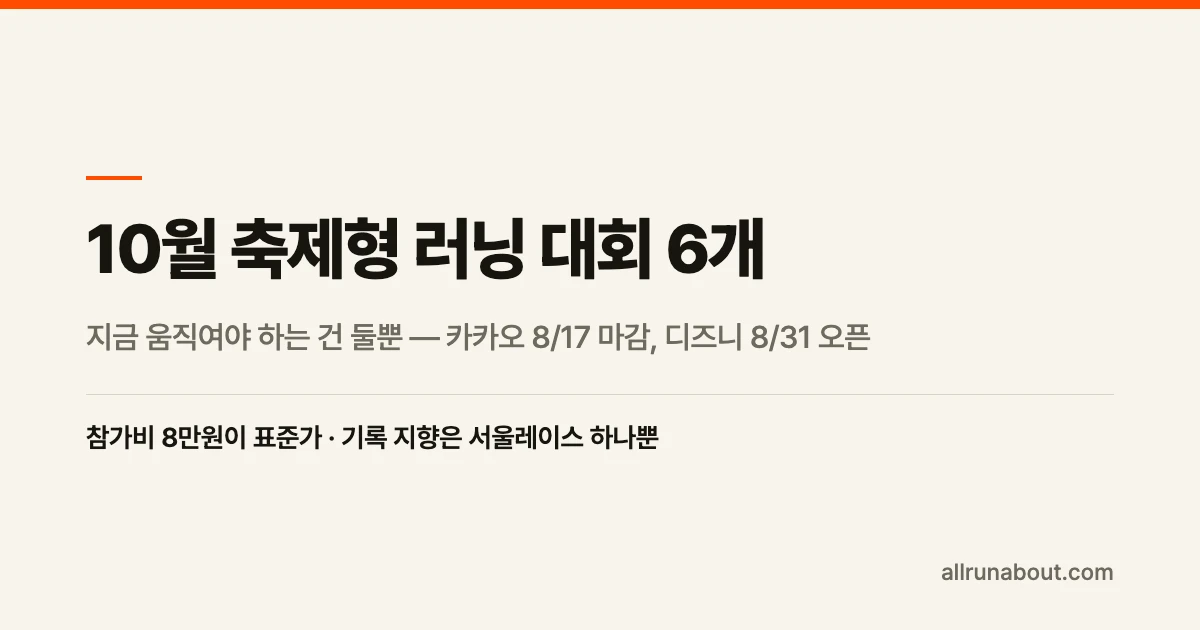
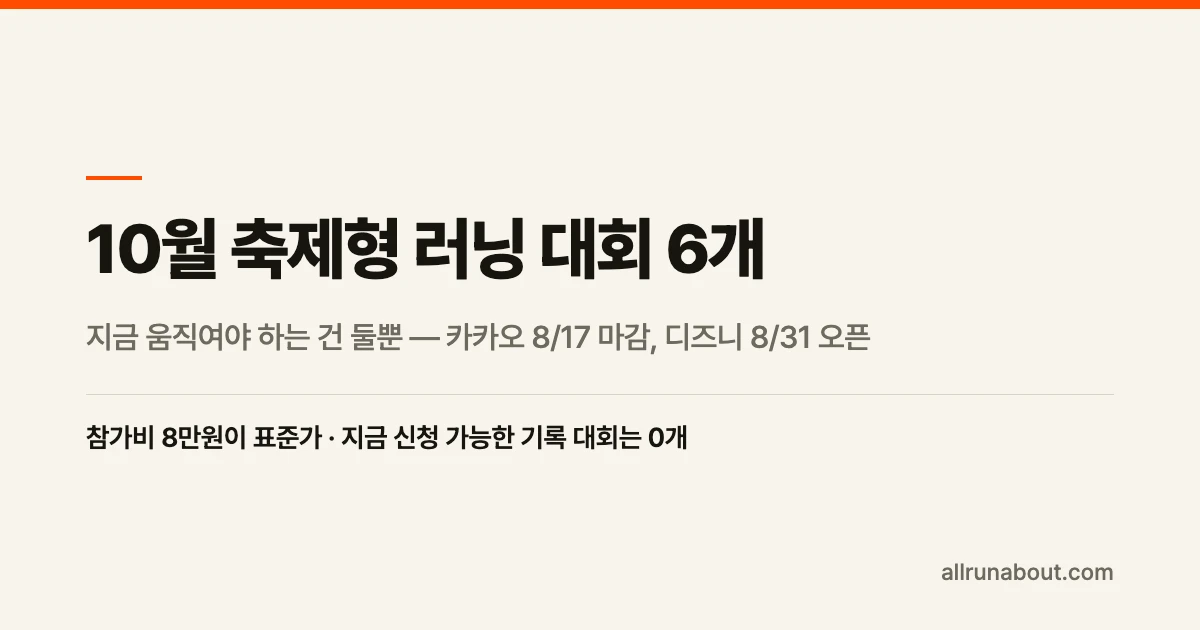
fix(marathon): 서울레이스 status 접수중→마감 정정 + 관련 글 3곳 수정
공식 사이트(seoul-race.co.kr) 직접 수집으로 확정. 근거 셋:
- 7/14·8/2 공지가 "참가자 여러분" 대상 출발 그룹 배정용 기록증 제출 안내
- 8/7 자원봉사 모집 공지에서 참가 규모를 "1만 3천 명"으로 명시
- 추가접수 공지 없음

DB: status 마감, expectedParticipants 12,500→13,000, registrationEnd
2026-05-27·lastVerified 백필. 블로그는 비교글의 서울레이스 행·기록 섹션·
목적별 추천·FAQ·미확정 callout과 카카오/배불런 글의 캘린더 문구를 정정 —
"10월에 지금 신청 가능한 기록 대회는 없다"로 결론이 바뀐다.

수집 노하우(todo-estimates 기록): 이 사이트는 WebFetch 403이지만 UA 지정
curl은 200. 초기 실패는 차단이 아니라 ugrep 정규식이 한글 멀티바이트에서
복잡도 초과로 터진 것 — 한글 페이지는 python 태그제거 후 슬라이스가 안전.

Changed region(s): [[0.2775, 0.6635, 0.5858, 0.7238]]

diff --git a/src/lib/data/blog/posts/2026-08.ts b/src/lib/data/blog/posts/2026-08.ts
@@ -32,7 +32,7 @@ export const posts_2026_08: BlogPost[] = [
       {
         question: '기록을 노린다면 어디로 가야 하나요?',
         answer:
-          '서울레이스(10월 11일, 청계광장 출발 하프·10K)가 유일하게 기록 지향 대회입니다. 도심 100% 아스팔트 평지 순환 코스에 대한육상연맹 공인이라 하프 PB에 친화적입니다. 나머지 다섯 개는 전부 축제형이라 PB용으로는 맞지 않습니다. 다만 서울레이스는 본접수가 5월에 진행됐으니 잔여 접수 여부를 공식 사이트에서 확인해야 합니다.',
+          '서울레이스(10월 11일, 청계광장 출발 하프·10K)가 유일하게 기록 지향 대회입니다. 다만 접수는 이미 끝났습니다 — 본접수가 5월 27일에 진행됐고, 공식 공지도 7월부터 참가자 대상 출발 그룹 배정 안내 단계로 넘어갔습니다. 즉 10월 라인업 여섯 개 중 지금 신청 가능한 기록 대회는 없습니다. 가을에 PB를 노린다면 춘천마라톤 같은 다른 대회를 봐야 하고, 하반기 기록 대회 일정은 별도 글에 정리해뒀습니다.',
       },
       {
         question: '첫 대회인데 어디가 좋을까요?',
@@ -48,7 +48,7 @@ export const posts_2026_08: BlogPost[] = [
   <ul>
     <li><strong>2026년 10월은 브랜드·캐릭터 러닝 대회가 여섯 개 몰린 달입니다</strong> — 배불런·런유어웨이(10/4), 카카오프렌즈 런(10/10), 서울레이스(10/11), 디즈니런(10/24), 그리고 일정 미발표 스타일런</li>
     <li><strong>지금 손을 써야 하는 건 둘뿐</strong> — 카카오는 8/17 마감, 디즈니는 8/31 오픈. 배불런·스타일런은 티켓 오픈 대기, 런유어웨이는 래플이 끝나 매장 패키지만 남았습니다</li>
-    <li><strong>참가비 8만원이 표준가가 됐고</strong>(카카오·디즈니 10K·런유어웨이), 여섯 중 <strong>기록 지향은 서울레이스 하나뿐</strong>입니다. 나머지는 전부 축제형</li>
+    <li><strong>참가비 8만원이 표준가가 됐고</strong>(카카오·디즈니 10K·런유어웨이), 여섯 중 기록 지향은 서울레이스 하나뿐인데 <strong>그마저 5월에 접수가 끝났습니다</strong> — 즉 10월에 지금 신청 가능한 기록 대회는 없고, 남은 건 전부 축제형입니다</li>
   </ul>
 </div>
 
@@ -93,7 +93,7 @@ export const posts_2026_08: BlogPost[] = [
       <td>10/11(일)<br>08:00</td>
       <td>청계광장<br>하프·10K</td>
       <td>하프 7만<br>10K 6만</td>
-      <td>본접수 5월 진행<br><small>잔여 여부 공식 확인</small></td>
+      <td><strong>접수 마감</strong><br><small>본접수 5/27 종료</small></td>
     </tr>
     <tr>
       <td><strong><a href="/marathon/disney-run-incheon-2026">디즈니런 인천</a></strong><br><small>디즈니</small></td>
@@ -157,7 +157,9 @@ export const posts_2026_08: BlogPost[] = [
 
 <p><strong>서울레이스(10/11)</strong>가 유일한 기록 지향 대회입니다. 청계광장→종로→숭례문→시청→청계천→DDP로 이어지는 도심 100% 아스팔트 평지 순환 코스에 대한육상연맹 공인, 작년 12,800명으로 역대 최다를 찍었습니다. 하프 PB를 노린다면 10월 라인업에서 사실상 이 대회 하나입니다.</p>
 
-<p>단, 본접수가 5월(우선접수 5/11~15, 본접수 5/27)에 진행됐습니다. 8월 12일 기준 잔여 접수가 있는지는 공식 사이트에서 직접 확인해야 합니다. 가을 풀코스·하프 기록 대회를 폭넓게 보고 싶다면 <a href="/blog/2026-second-half-marathon-schedule-korea">하반기 마라톤 완전정복</a>이 더 맞습니다.</p>
+<p><strong>단, 접수는 이미 끝났습니다.</strong> 우선접수 5/11~15, 본접수 5/27로 진행됐고, 공식 공지는 7월부터 <strong>참가자 대상 출발 그룹 배정용 기록증 제출</strong> 단계로 넘어갔습니다(8월 7일 자원봉사 모집 공지에서는 참가 규모를 <strong>1만 3천 명</strong>으로 못 박았습니다). 추가접수 공지도 없습니다.</p>
+
+<p>정리하면 <strong>10월 여섯 대회 중 지금 신청할 수 있는 기록 대회는 없습니다.</strong> 남은 다섯은 전부 축제형이고, 그중 그나마 기록에 가까운 건 출발 그룹을 나누는 런유어웨이 10K인데 이마저 래플이 끝났습니다. 가을에 PB를 노린다면 10월 밖에서 찾아야 하고, 대회별 접수일은 <a href="/blog/2026-second-half-marathon-schedule-korea">하반기 마라톤 완전정복</a>에 정리돼 있습니다.</p>
 
 <h2>5. 목적별 30초 추천</h2>
 
@@ -165,7 +167,7 @@ export const posts_2026_08: BlogPost[] = [
   <li><strong>생애 첫 대회 / 가족·아이 동반</strong> → 배불런(5K 단일) 또는 디즈니런 5K(가족 친화 설계)</li>
   <li><strong>굿즈가 목적</strong> → 카카오(러닝 의류 세트 + 협찬 패키지 규모가 가장 큼)</li>
   <li><strong>러닝화가 필요했다</strong> → 런유어웨이 8/20·21 매장 패키지(신발값에 참가권이 붙는 구조)</li>
-  <li><strong>기록·PB</strong> → 서울레이스 하프(잔여 접수 확인 필요)</li>
+  <li><strong>기록·PB</strong> → <strong>10월 안엔 없습니다</strong>(유일한 기록 대회 서울레이스는 5월에 접수 마감) — <a href="/blog/2026-second-half-marathon-schedule-korea">하반기 일정</a>에서 11~12월 대회를 보세요</li>
   <li><strong>패션·트렌드</strong> → 스타일런(발표 대기 — 작년 5시간 매진이라 알림 설정 필수)</li>
   <li><strong>추첨 떨어져도 뛰고 싶다</strong> → 카카오 버추얼 런(카카오맵·같이가치 연계)</li>
 </ul>
@@ -184,7 +186,7 @@ export const posts_2026_08: BlogPost[] = [
   <span class="callout-icon">⚠</span>
   <div class="callout-body">
     <p class="callout-title">확정되지 않은 항목</p>
-    <p>리아는 배불런의 티켓 오픈일·참가비, 스타일런의 2026년 일정 전체, 서울레이스의 현재 잔여 접수 여부는 2026년 8월 12일 기준 미확인입니다. 카카오프렌즈 런도 접수는 열렸지만 환불 규정·코스 상세·기록 계측 여부 등 세부 요강은 아직 공개 자료에서 확인되지 않았습니다. 각 대회 공식 채널에서 최종 확인하시고, 확정되는 대로 이 글을 갱신하겠습니다.</p>
+    <p>리아는 배불런의 티켓 오픈일·참가비, 스타일런의 2026년 일정 전체는 2026년 8월 12일 기준 미공개입니다. 카카오프렌즈 런도 접수는 열렸지만 환불 규정·코스 상세·기록 계측 여부 등 세부 요강은 아직 공개 자료에서 확인되지 않았습니다. 각 대회 공식 채널에서 최종 확인하시고, 확정되는 대로 이 글을 갱신하겠습니다.</p>
   </div>
 </div>
 
@@ -659,7 +661,7 @@ export const posts_2026_08: BlogPost[] = [
 
 <ul>
   <li><strong>10월 10일</strong> — <a href="/marathon/kakao-friends-run-2026">카카오프렌즈 런</a> (탄천 1만 명, <a href="/blog/kakao-friends-run-2026">접수 분석 글</a> 참고)</li>
-  <li><strong>10월 11일</strong> — <a href="/marathon/seoul-race-2026">서울레이스</a> (도심 하프·10K — 기록 지향이면 이쪽)</li>
+  <li><strong>10월 11일</strong> — <a href="/marathon/seoul-race-2026">서울레이스</a> (도심 하프·10K — 10월 유일의 기록 대회지만 <strong>5월에 접수 마감</strong>)</li>
   <li><strong>10월 중하순(미확정)</strong> — <strong>스타일런</strong> (잠실, 패션 펀런)</li>
   <li><strong>10월 24일</strong> — <a href="/marathon/disney-run-incheon-2026">디즈니런 인천</a> (캐릭터 IP 펀런)</li>
 </ul>
@@ -2740,7 +2742,7 @@ export const posts_2026_08: BlogPost[] = [
   <li><strong>9월</strong> — <a href="/marathon/mudo-run-gyeongju-2026">무한도전 RUN in 경주</a> (예능 IP 펀런)</li>
   <li><strong>10월 4일</strong> — <a href="/blog/lotteria-baebulrun-2026">리아는 배불런</a> (롯데리아, 서울어린이대공원 5K) · <a href="/marathon/nb-run-your-way-seoul-10k-2026">NB 런 유어 웨이 서울 10K</a> (브랜드 대회) — <strong>같은 날 겹칩니다</strong></li>
   <li><strong>10월 10일</strong> — <strong>카카오프렌즈 런</strong> (탄천, 5K·10K)</li>
-  <li><strong>10월 11일</strong> — <a href="/marathon/seoul-race-2026">서울레이스</a> (도심 하프·10K — 기록 지향이면 이쪽)</li>
+  <li><strong>10월 11일</strong> — <a href="/marathon/seoul-race-2026">서울레이스</a> (도심 하프·10K — 10월 유일의 기록 대회지만 <strong>5월에 접수 마감</strong>)</li>
   <li><strong>10월 24일</strong> — <a href="/marathon/disney-run-incheon-2026">디즈니런 인천</a> (캐릭터 IP 펀런)</li>
   <li><strong>10월 중하순(미확정)</strong> — <a href="/blog/style-run-2026-preview">스타일런</a> (롯데백화점, 잠실 패션 펀런)</li>
 </ul>

diff --git a/src/lib/data/marathon/october.ts b/src/lib/data/marathon/october.ts
@@ -241,11 +241,11 @@ export const octoberEvents: MarathonEvent[] = [
     location: '청계광장 앞 세종대로',
     region: '서울',
     distances: ['하프', '10K'],
-    status: '접수중',
+    status: '마감',
     isMajor: true,
     website: 'https://www.seoul-race.co.kr/',
     description:
-      '동마 시리즈 유일 가을 도심 페스티벌형 하프·10K. 청계광장→종로→숭례문→시청→청계천→DDP. 우선접수 5/11~5/15, 본접수 5/27 19시 하프·21시 10K. 2025년 12,800명 역대 최다.',
+      '동마 시리즈 유일 가을 도심 페스티벌형 하프·10K. 청계광장→종로→숭례문→시청→청계천→DDP. 우선접수 5/11~5/15, 본접수 5/27 19시 하프·21시 10K로 진행돼 접수는 종료됐습니다(공식 공지가 7월부터 참가자 대상 출발 그룹 배정용 기록증 제출을 안내하고, 8월 7일 자원봉사 모집 공지에서 참가 규모를 1만 3천 명으로 명시 — 2026-08-12 확인). 2025년 12,800명 역대 최다.',
     courseInfo: {
       terrain: '평지',
       difficulty: '중급',
@@ -257,9 +257,11 @@ export const octoberEvents: MarathonEvent[] = [
         { distance: '하프', fee: 70000 },
         { distance: '10K', fee: 60000 },
       ],
-      expectedParticipants: 12500,
+      expectedParticipants: 13000,
       startTime: '08:00',
     },
+    registrationEnd: '2026-05-27',
+    lastVerified: '2026-08-12',
   },
   {
     id: 'disney-run-incheon-2026',

diff --git a/scripts/thumbnail/copy.ts b/scripts/thumbnail/copy.ts
@@ -43,7 +43,7 @@ export const OVERRIDES: Record<string, Partial<ThumbCopy>> = {
   'october-fun-run-races-2026-compare': {
     title: '10월 축제형 러닝 대회 6개',
     subtitle: '지금 움직여야 하는 건 둘뿐 — 카카오 8/17 마감, 디즈니 8/31 오픈',
-    data: '참가비 8만원이 표준가 · 기록 지향은 서울레이스 하나뿐',
+    data: '참가비 8만원이 표준가 · 지금 신청 가능한 기록 대회는 0개',
   },
   // 출처: posts/2026-08.ts 출시 정보 표 — 뉴발란스 인스타 공지(2026-08-12 확인, 출시일·가격·체험)
   // + 공식 발표 스펙(218g). 패키지 동가 구조는 런유어웨이 공식 접수 안내 기준.

diff --git a/.omc/todo-estimates.md b/.omc/todo-estimates.md
@@ -181,6 +181,7 @@
 - [ ] nike-hybrid-rn / nike-hybrid-fly: **블로그 발행 완료(nike-hybrid-hyrox-shoes-2026, 2026-08-06), DB 미등록** — 한국 출시·정가 미확인($150은 미국 외신 기준, 나이키 발표문에 가격 없음). ⓐ 10/8 글로벌 출시 후 nike.com/kr 등재·한국가 확인 → 글 갱신 + DB 등록 검토(하이록스 서울 11/14~15 직전 시의성) ⓑ RunRepeat 랩 게시 시 실측 반영 ⓒ 하이브리드 플라이는 2027-04 출시라 내년 3월 재확인 (추가 2026-08-06)
 - [ ] busan-bridge-marathon-2026 (블로그 발행 + december.ts 갱신 2026-08-12): ① **8/24(월) 10시 접수 오픈 시 status 접수예정→접수중** + 블로그 deadline-strip "접수 진행 중"으로 갱신, 선착순 12,000명이라 소진 속도 확인(접수 발표일=수익 스파이크 패턴 후보) ② 공식 사이트 집결지 안내(Coming Soon) 갱신 시 피니시 지점·코스 순서 본문 반영 ③ ⚠ 일부 애그리게이터의 "8/1~8/16 접수"는 공식과 충돌하는 오정보로 폐기했음 — 재확인 시 공식(busanmarathon.com)만 신뢰 (추가 2026-08-12)
 - [ ] style-run-2026-preview (프리뷰 발행 2026-08-12): 2026 공식 발표 시(작년 패턴상 8월 하순, blog.lotte.co.kr·롯데백화점몰) ⓐ 글 갱신(대회일·접수일·참가비·협업 브랜드·정원 — 전부 현재 미확정) ⓑ marathon DB 등록(날짜 확정 후) ⓒ 제3자 "10/18" 표기는 공식 근거 없음 — 공식 발표로만 확정할 것. 재확인 2026-08-20~09-01 (추가 2026-08-12)
-- [ ] seoul-race-2026 (october.ts) **status 검증 필요**: DB는 `접수중`인데 본접수가 5/27이라 8월 현재 열려 있을 가능성이 낮음. 2026-08-12 확인 시도했으나 공식(seoul-race.co.kr) WebFetch 403 + curl 무응답으로 실패 → **날짜 경과만으로 마감 단정 금지 원칙에 따라 DB 미변경**. Chrome MCP 등 접근 가능한 경로로 재확인 후 `마감` 여부 판정. 비교글(`october-fun-run-races-2026-compare`)엔 "잔여 여부 공식 확인 필요"로 보수 표기해둠 (추가 2026-08-12)
+- [x] ~~seoul-race-2026 status 검증~~ **완료(2026-08-12)** — `접수중`은 오류였고 **`마감`으로 정정**. 근거(공식 seoul-race.co.kr 직접 수집): ① 7/14·8/2 공지가 "**참가자 여러분**" 대상 출발 그룹 배정용 기록증 제출 안내 ② 8/7 자원봉사(동마크루·레이스패트롤·페이스메이커) 모집 공지에서 참가 규모를 "**1만 3천 명**"으로 명시 ③ 추가접수 공지 없음. `expectedParticipants` 12,500→13,000, `registrationEnd: 2026-05-27`·`lastVerified` 백필. 비교글·카카오 글의 서울레이스 서술도 "접수 마감"으로 정정.
+  - **수집 노하우**: `seoul-race.co.kr`은 **WebFetch 403이지만 UA 지정 curl은 200**(578KB, imweb 기반). 초기 시도가 실패한 건 사이트 차단이 아니라 **ugrep 정규식이 한글 멀티바이트 `.{0,80}`에서 복잡도 초과로 터진 것** — 한글 페이지 추출은 grep 대신 **python으로 태그 제거 후 키워드 주변 슬라이스**가 안전하다.
 - [ ] kakao-friends-run-2026: 접수 8/17(월) 마감 → **8/18 status `마감`**, 8/20 당첨 발표 후 글 갱신. ⚠ 요강 9개 항목(환불 규정·칩 계측·코스·정원 배분·결제 기한 등)이 8/12 현재도 미공개 — 공식 홈페이지가 **카카오톡 인앱 전용**으로 보여 WebFetch·검색으로 도달 불가. 확인하려면 Chrome MCP 로그인 세션이나 카톡 채널 딥링크 필요 (추가 2026-08-12)
 - [ ] lotteria-baebulrun-2026 (블로그 발행 + october.ts 등록 2026-08-12): 공식명 "2026 리아는 배불런"(운영자 인스타 링크로 확인 — "롯데리아런" 검색으로는 안 잡혔음). ① **티켓 오픈 공지 시**(롯데잇츠 앱) 글 갱신 + status 접수예정→접수중 + 참가비·프로그램 반영 ② 8월 말 리아 불고기·새우 구매 혜택 구체 내용 공개 시 반영. 재확인 2026-08-25~09 (추가 2026-08-12)
